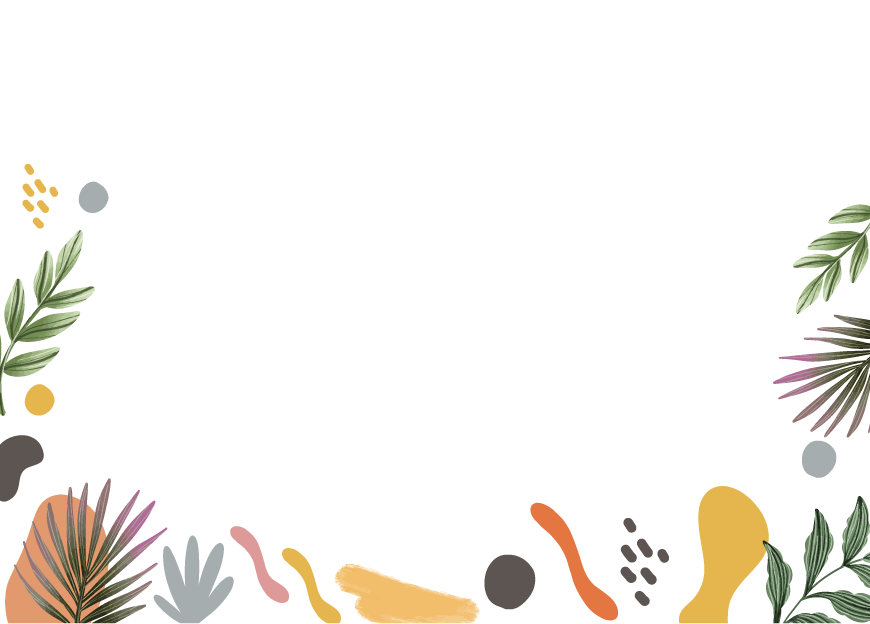
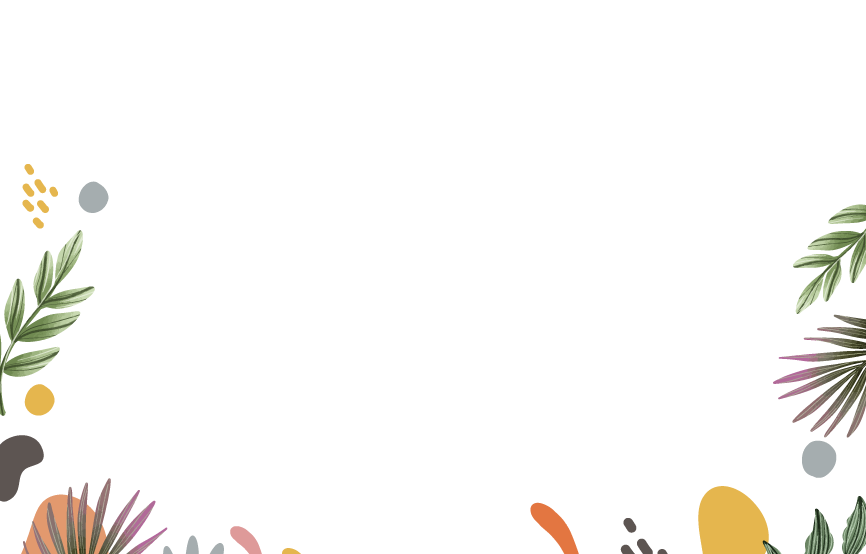
Fixed Login BGImage Size and Registed top margin

Changed region(s): [[0.0, 0.2762, 1.0, 1.0]]

diff --git a/src/app/frontend/Register/Register.js b/src/app/frontend/Register/Register.js
@@ -4,7 +4,7 @@ import styles from './Register.module.scss';
 
 const Register = () => (
   <div className={styles.bgImg} data-testid="Register">
-    <section className={"section mt-6"}>
+    <section className={"section mt-4"}>
       <div className="container">
         <div className="columns is-centered">
           <div className={"column box is-mobile is-5-desktop is-8-tablet p-5"}>

diff --git a/src/app/frontend/Login/Login.module.scss b/src/app/frontend/Login/Login.module.scss
@@ -5,7 +5,7 @@
 @media (min-width: 768px){
     .bgImg { 
         background-image: url('../../../assets/img/petals.png');
-        background-size: 100% 110%;
+        background-size: 100% 100%;
         height: 100vh;
         overflow-y: hidden;
     }

diff --git a/src/app/frontend/Register/Register.module.scss b/src/app/frontend/Register/Register.module.scss
@@ -5,7 +5,7 @@
 @media (min-width: 768px){
     .bgImg { 
         background-image: url('../../../assets/img/petals.png');
-        background-size: 100% 110%;
+        background-size: 100% 100%;
         height: 100vh;
         overflow-y: hidden;
     }
